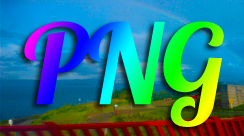
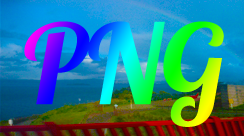
Minor copy edits. Took the drop shadow off of the png on the Photo page.

diff --git a/index.php b/index.php
@@ -44,10 +44,10 @@
   </div><!-- /header -->
   <div data-role="content">      
     <p>For instance, I can&rsquo;t do transparency, Gif can do it in a limited way, and Ping pretty much nails it.</p>
-    <ul class="images">
-      <li class="image jpg"><?php iDims($img01[0]); iSize($img01[0]);?></li>
-      <li class="image gif"><?php iDims($img01[1]); iSize($img01[1]);?></li>
-      <li class="image png"><?php iDims($img01[2]); iSize($img01[2]);?></li>
+    <ul class="imageBox">
+      <li class="images jpg"><?php iDims($img01[0]); iSize($img01[0]);?></li>
+      <li class="images gif"><?php iDims($img01[1]); iSize($img01[1]);?></li>
+      <li class="images png"><?php iDims($img01[2]); iSize($img01[2]);?></li>
     </ul>
     <p><a href="#one" data-direction="reverse" data-role="button">Back to page "one"</a></p>     
     <p><a href="#three" data-role="button">Show page "three"</a></p>     
@@ -63,12 +63,12 @@
     <h1>display photo art</h1>
   </div><!-- /header -->
   <div data-role="content" >    
-    <p>If you want to display a photo, I&rsquo;m probably your best choice. That&rsquo;s because I can render millions of colors and show a reasonably sharp image more cheaply than my friends Gif and Ping. I can also employ <a href="https://en.wikipedia.org/wiki/Lossy_compression">lossy compression</a>, something my friends can&rsquo;t do.</p>
-    <p>As you can see, I&rsquo;m the lightest graphic. Your visitors will be able to download me faster than my friends. Also, Gif looks terrible because she can&rsquo;t do as many colors. Ping can also do millions of colors, but at a much greater cost.</p>
-    <ul class="images">
-      <li class="image jpg"><?php iDims($img02[0]); iSize($img02[0]);?></li>
-      <li class="image gif"><?php iDims($img02[1]); iSize($img02[1]);?></li>
-      <li class="image png"><?php iDims($img02[2]); iSize($img02[2]);?></li>
+    <p>If you want to display a photo, I&rsquo;m your best choice, because I can render millions of colors and show a reasonably sharp image more cheaply than my friends Gif and Ping.</p>
+    <p>As you can see, I have the smallest file size and my gradients are smoother than Gif's. Ping looks great, but he's very heavy.</p>
+    <ul class="imageBox">
+      <li class="images jpg"><?php iDims($img02[0]); iSize($img02[0]);?></li>
+      <li class="images gif"><?php iDims($img02[1]); iSize($img02[1]);?></li>
+      <li class="images png"><?php iDims($img02[2]); iSize($img02[2]);?></li>
     </ul>
     <p><a href="#two" data-direction="reverse" data-role="button">Back to page "two"</a></p>     
     <p><a href="#four" data-role="button">Show page "four"</a></p>        
@@ -81,18 +81,16 @@
 <!-- Page -->
 <div data-role="page" id="four">
   <div data-role="header">
-    <h1>Transparency</h1>
+    <h1>vector art</h1>
   </div><!-- /header -->
   <div data-role="content">      
-    <p>Why not use me for everything? Because I&rsquo;m actually very bad at some things that my friends do very well.</p>
-    <p>For graphics with fewer than 256 colors, particularly ones created in a vector art program like <a href="http://inkscape.org/en/">Inkscape</a>, Gif works best. She&rsquo;s more lightweight than me and has cleaner edges.</p>
-    <ul class="images">
-      <li class="image jpg"><?php iDims($img03[0]); iSize($img03[0]);?></li>
-      <li class="image gif"><?php iDims($img03[1]); iSize($img03[1]);?></li>
-      <li class="image png"><?php iDims($img03[2]); iSize($img03[2]);?></li>
+    <p>For graphics with fewer than 256 colors, particularly ones created in a vector art program like <a href="http://inkscape.org/en/">Inkscape</a>, Gif delivers edges much cleaner than I can manage and does so with a smaller file size.</p>
+    <ul class="imageBox">
+      <li class="images jpg"><?php iDims($img03[0]); iSize($img03[0]);?></li>
+      <li class="images gif"><?php iDims($img03[1]); iSize($img03[1]);?></li>
+      <li class="images png"><?php iDims($img03[2]); iSize($img03[2]);?></li>
     </ul>
-    <p>Gif beats Ping and I on size by actually throwing out colors she&rsquo;s not using. In this case, all but 16 colors were discarded.</p>
-    <p>Ping is also terrific at stuff like this, though he might cost a little more. He does <a href="#">transparency</a> better, too. </p>
+    <p>Gif&rsquo;s very tidy. She throws out colors she&rsquo;s not using. In this case, all but 16 colors were discarded.</p>
     <p><a href="#three" data-direction="reverse" data-role="button">Back to page "three"</a></p>     
     <p><a href="#five" data-role="button">Show page "five"</a></p>        
   </div><!-- /content -->
@@ -109,10 +107,10 @@
   <div data-role="content">      
     <p>One thing you shouldn&rsquo;t do with an image is words. Search engines are your bullhorn on the Web. Search engines read text. So, if you put your words inside an image, it&rsquo;s just like you&rsquo;re whispering.</p>
     <p>Also, by putting words in an image, you no longer have a good image choice. I will put artifacts around the edges of your type unless you turn off most or all of my compression, losing the cost savings I usually bring. Gif displays text well, provided you stay within her limitations (no more than 256 colors). And Ping can do text well, but he&rsquo;s expensive.</p>
-    <ul class="images">
-      <li class="image jpg"><?php iDims($img04[0]); iSize($img04[0]);?></li>
-      <li class="image gif"><?php iDims($img04[1]); iSize($img04[1]);?></li>
-      <li class="image png"><?php iDims($img04[2]); iSize($img04[2]);?></li>
+    <ul class="imageBox">
+      <li class="images jpg"><?php iDims($img04[0]); iSize($img04[0]);?></li>
+      <li class="images gif"><?php iDims($img04[1]); iSize($img04[1]);?></li>
+      <li class="images png"><?php iDims($img04[2]); iSize($img04[2]);?></li>
     </ul>
     <p><a href="#four" data-direction="reverse" data-role="button">Back to page "four"</a></p>     
     <p><a href="#six" data-role="button">Show page "six"</a></p>        
